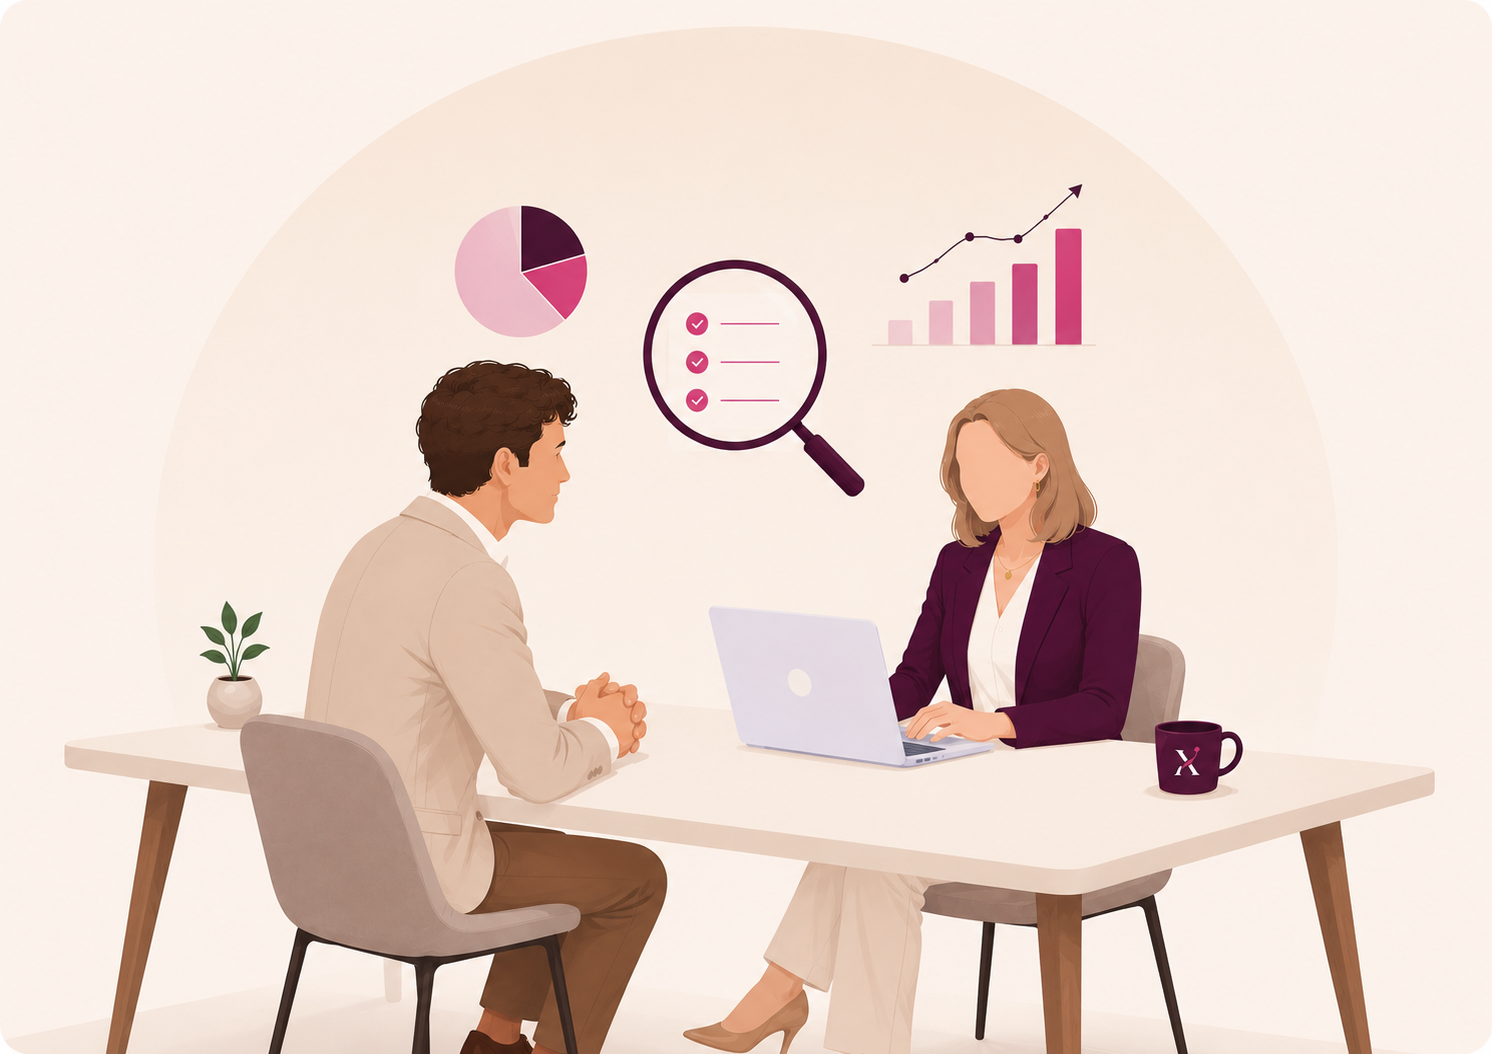
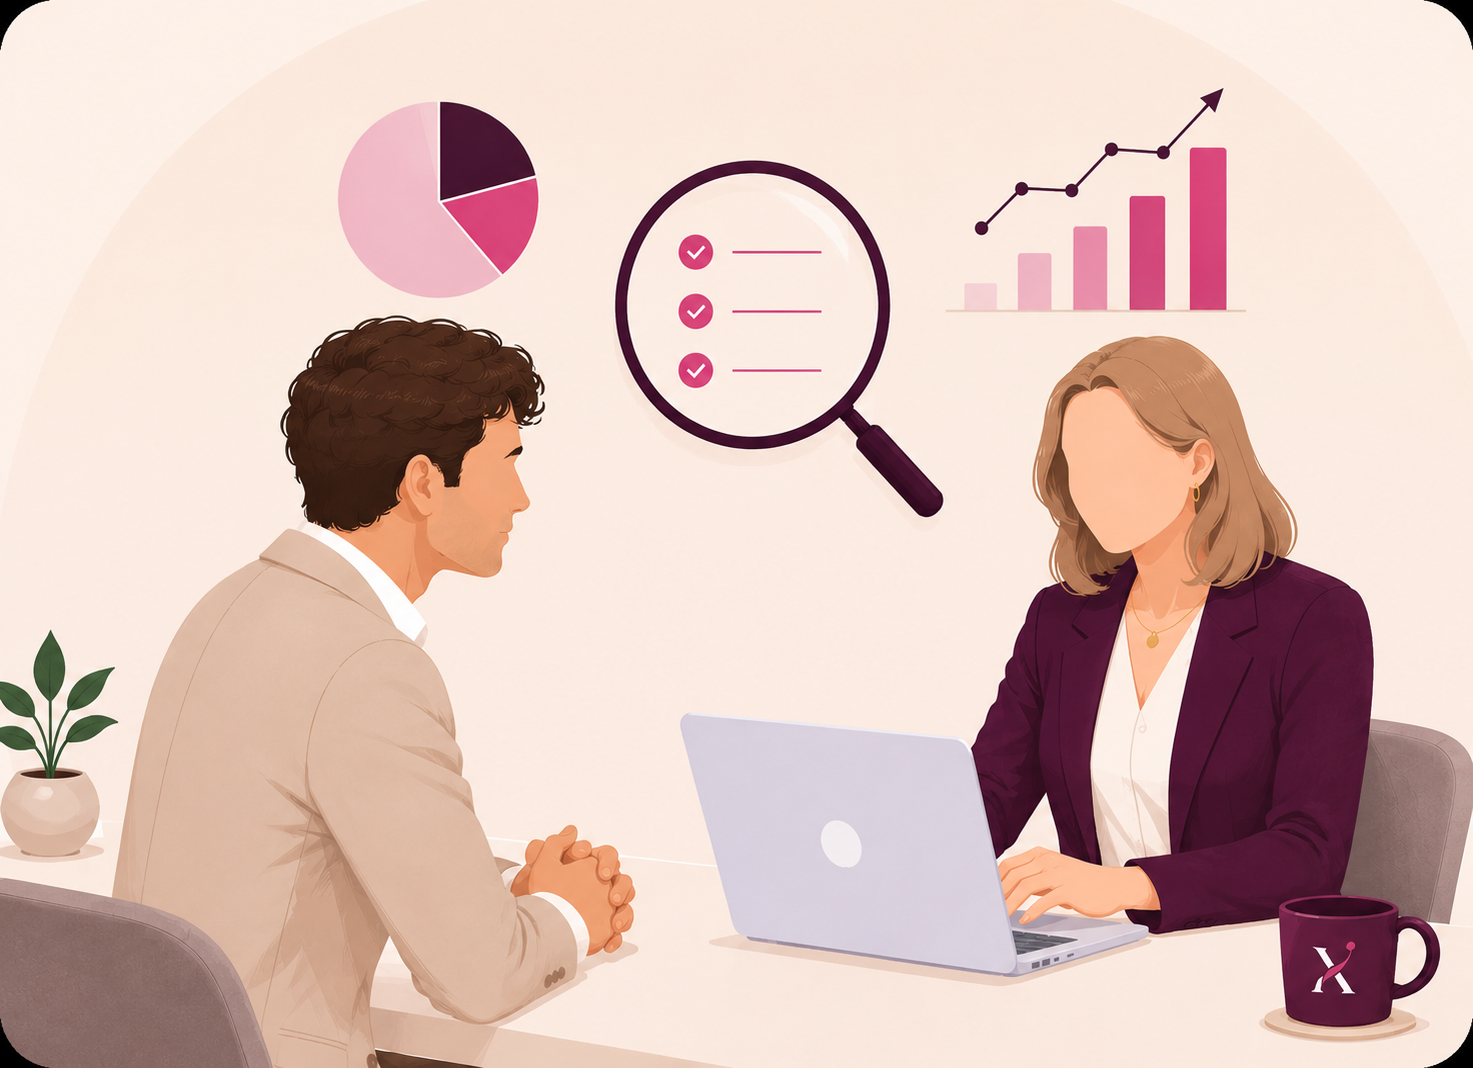
Card 01: new diagnostic illustration, beige bg, 4/3 ratio, full mug visible

diff --git a/index.html b/index.html
@@ -476,7 +476,7 @@
 
         <p>Audit de vos besoins, outils et processus afin d'identifier les leviers d'optimisation et construire une feuille de route IA adaptée.</p>
         <p class="approach-objectif"><strong>Objectif :</strong> <em>définir une feuille de route IA claire, priorisée et directement exploitable.</em></p>
-        <div class="approach-card-img">
+        <div class="approach-card-img approach-card-img--diag">
           <img src="assets/approach-diagnostic.png" alt="Dashboard diagnostic stratégique EXEC'IA" class="img-tilted" loading="lazy">
         </div>
       </div>

diff --git a/assets/style.css b/assets/style.css
@@ -1004,6 +1004,7 @@ footer { background: var(--deep); padding: 52px 36px; text-align: center; }
 }
 .approach-card-img img { width: 100%; height: 100%; object-fit: cover; }
 .approach-card-img img.img-tilted { transform: none; object-fit: contain; }
+.approach-card-img--diag { aspect-ratio: 4/3; max-height: 360px; background: #F5EDE6; }
 .approach-card-img img.warm-filter {
   filter: hue-rotate(32deg) saturate(0.88) brightness(0.92);
 }